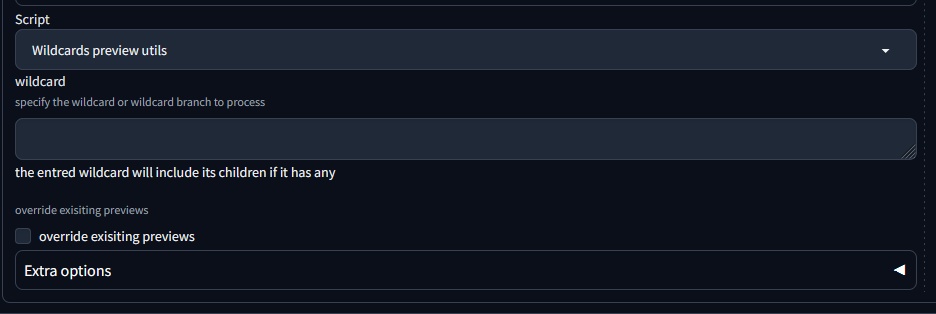
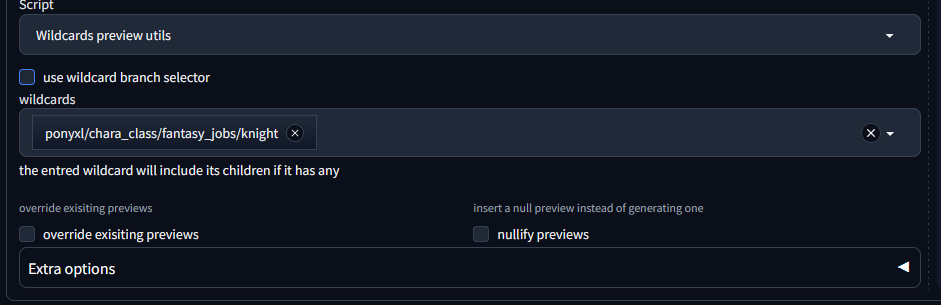
- added single card selectors - fixed the undetected cards bug - updated the readme

diff --git a/style.css b/style.css
@@ -1,3 +1,6 @@
+
+
+
 #settings_WildcardsCards .prose.gradio-html {
     position: absolute;
     bottom: 0;

diff --git a/scripts/preview_processing.py b/scripts/preview_processing.py
@@ -2,9 +2,11 @@ from modules.processing import process_images, Processed, fix_seed
 from modules.shared import state, opts
 from modules import images
 import os
+import shutil 
 from PIL import Image, ImageOps
 from scripts.misc_utils import (
     CARDS_FOLDER,
+    RES_FOLDER,
     WILD_STR,
 )
 
@@ -20,7 +22,30 @@ def resize_as_thumbnail (img, tragetSize=512):
     
     #return img.thumbnail(thumbnail_size, Image.Resampling.LANCZOS)
     return images.resize_image(0, img, width, height)
+
+def set_preview_as_null(selected_wild_paths, task_override=False, preview_suffix =""):
+    suffix = "."+preview_suffix.replace(" ","") if (not preview_suffix=="") and (not preview_suffix=="default") and preview_suffix  else ""
+    filtered_job_list = []
+
+    print(f"\n Selected ({len(selected_wild_paths)}) wildcards for preview nullification :")
+    for wpath in selected_wild_paths : 
+        save_file_name= os.path.join(CARDS_FOLDER, wpath.replace("/", os.path.sep))+suffix
+        if os.path.exists(save_file_name+".jpeg") or os.path.exists(save_file_name+".jpg") or os.path.exists(save_file_name+".png")  or os.path.exists(save_file_name+".gif"):
+            if task_override:
+                filtered_job_list.append(wpath)
+                print(f">> {wpath}  (EXIST=OVERRIDE)")
+                shutil.copyfile(os.path.join(RES_FOLDER,"null-preview.jpeg"), os.path.join(save_file_name+".jpeg"))
+            else:
+                print(f">> {wpath}  (EXIST=SKIP)")
+        else:
+            filtered_job_list.append(wpath)
+            shutil.copyfile(os.path.join(RES_FOLDER,"null-preview.jpeg"), os.path.join(save_file_name+".jpeg"))
+            print(f">> {wpath}")
     
+    print(f"\n({len(filtered_job_list)}/{len(selected_wild_paths)}) wildcard previews nullified")
+    
+
+   
 
 def txt2img_process(p,selected_wild_paths, replace_str_opt = "", task_override=False, preview_suffix =""): 
   
@@ -31,64 +56,64 @@ def txt2img_process(p,selected_wild_paths, replace_str_opt = "", task_override=F
     base_prompt = p.prompt
     fix_seed(p)
     filtered_job_list = []
-
-    print(f"\n Selected ({len(selected_wild_paths)}) wildcards for preview generation :")
-    for wpath in selected_wild_paths : 
-        save_file_name= os.path.join(CARDS_FOLDER, wpath.replace("/", os.path.sep))+suffix
-        if os.path.exists(save_file_name+".jpeg") or os.path.exists(save_file_name+".jpg") or os.path.exists(save_file_name+".png")  or os.path.exists(save_file_name+".gif"):
-            if task_override:
-                filtered_job_list.append(wpath)
-                print(f">> {wpath}  (EXIST=OVERRIDE)")
+    if(selected_wild_paths):
+        print(f"\n Selected ({len(selected_wild_paths)}) wildcards for preview generation :")
+        for wpath in selected_wild_paths : 
+            save_file_name= os.path.join(CARDS_FOLDER, wpath.replace("/", os.path.sep))+suffix
+            if os.path.exists(save_file_name+".jpeg") or os.path.exists(save_file_name+".jpg") or os.path.exists(save_file_name+".png")  or os.path.exists(save_file_name+".gif"):
+                if task_override:
+                    filtered_job_list.append(wpath)
+                    print(f">> {wpath}  (EXIST=OVERRIDE)")
+                else:
+                    print(f">> {wpath}  (EXIST=SKIP)")
             else:
-                print(f">> {wpath}  (EXIST=SKIP)")
-        else:
-            filtered_job_list.append(wpath)
-            print(f">> {wpath}")
-    
-    print(f"\n Generating ({len(filtered_job_list)}/{len(selected_wild_paths)}) wildcard previews ...")
+                filtered_job_list.append(wpath)
+                print(f">> {wpath}")
+        
+        print(f"\n Generating ({len(filtered_job_list)}/{len(selected_wild_paths)}) wildcard previews ...")
 
-    state.job_count = len(filtered_job_list)
-    for wpath in filtered_job_list:
-        if state.interrupted: break
+        state.job_count = len(filtered_job_list)
+        for wpath in filtered_job_list:
+            if state.interrupted: break
 
-        if(replace_str_opt=="" or base_prompt.count(replace_str_opt)==0):
-            p.prompt = f"{base_prompt} {WILD_STR}{wpath}{WILD_STR}"
-        else:
-            p.prompt = base_prompt.replace(replace_str_opt, f"{WILD_STR}{wpath}{WILD_STR}", 1)  
-        
-        all_prompts.append(p.prompt)
-        
-        proc = process_images(p)
-        infotexts.append(proc.info)
-        
-        if(len(proc.images)>1):
-            images_list.append(proc.images[0])
-        else:
-            images_list += proc.images
-        
-        if state.interrupted: break  
-        # save_dir = os.path.dirname(os.path.join(CARDS_FOLDER, wpath.replace("/", os.path.sep)))
-        # save_name = wpath.split("/")[-1]
-        # images.save_image(
-        #         image= proc.images[0], 
-        #         path= save_dir, 
-        #         basename= save_name, 
-        #         seed = p.seed, 
-        #         prompt = p.prompt, 
-        #         extension= opts.samples_format, 
-        #         info="", 
-        #         p=p, 
-        #         suffix= suffix)
-        
-        save_file_name= os.path.join(CARDS_FOLDER, wpath.replace("/", os.path.sep))+suffix+".jpeg"
-        print(f"Saving preview image at: {save_file_name}")
-        #proc.images[0].save(save_file_name)
-        if(getattr(opts, "wcc_downscale_preview", False)):
-            final_image = resize_as_thumbnail(proc.images[0])
-        else:
-            final_image = proc.images[0]
-        
-        images.save_image_with_geninfo(image = final_image, geninfo = proc.info, filename = save_file_name)
+            if(replace_str_opt=="" or base_prompt.count(replace_str_opt)==0):
+                p.prompt = f"{base_prompt} {WILD_STR}{wpath}{WILD_STR}"
+            else:
+                p.prompt = base_prompt.replace(replace_str_opt, f"{WILD_STR}{wpath}{WILD_STR}", 1)  
+            
+            all_prompts.append(p.prompt)
+            
+            proc = process_images(p)
+            infotexts.append(proc.info)
+            
+            if(len(proc.images)>1):
+                images_list.append(proc.images[0])
+            else:
+                images_list += proc.images
+            
+            if state.interrupted: break  
+            # save_dir = os.path.dirname(os.path.join(CARDS_FOLDER, wpath.replace("/", os.path.sep)))
+            # save_name = wpath.split("/")[-1]
+            # images.save_image(
+            #         image= proc.images[0], 
+            #         path= save_dir, 
+            #         basename= save_name, 
+            #         seed = p.seed, 
+            #         prompt = p.prompt, 
+            #         extension= opts.samples_format, 
+            #         info="", 
+            #         p=p, 
+            #         suffix= suffix)
+            
+            save_file_name= os.path.join(CARDS_FOLDER, wpath.replace("/", os.path.sep))+suffix+".jpeg"
+            print(f"Saving preview image at: {save_file_name}")
+            #proc.images[0].save(save_file_name)
+            if(getattr(opts, "wcc_downscale_preview", False)):
+                final_image = resize_as_thumbnail(proc.images[0])
+            else:
+                final_image = proc.images[0]
+            
+            images.save_image_with_geninfo(image = final_image, geninfo = proc.info, filename = save_file_name)
         
 
     return Processed(p, images_list, p.seed, "", all_prompts=all_prompts, infotexts=infotexts)

diff --git a/scripts/extra_cards.py b/scripts/extra_cards.py
@@ -1,6 +1,6 @@
 from modules.ui_extra_networks import ExtraNetworksPage, quote_js, register_page
 from modules import shared, script_callbacks
-import modules.scripts as scripts
+import modules.scripts as scripts 
 
 from scripts.misc_utils import (
     collect_Wildcards,
@@ -14,7 +14,7 @@ from scripts.misc_utils import (
     WILD_STR,
 )
 from scripts.preview_processing import (
-    txt2img_process
+    txt2img_process, set_preview_as_null
 )
 import shutil
 import os
@@ -176,6 +176,11 @@ def on_ui_settings():
 
 
 #-------------------------|Utility_Script Block_Start|--------------------------
+
+
+def toggle_wildpath_box (toggle_status):
+    return (gr.update(visible= toggle_status))
+
 class Script(scripts.Script):
     is_txt2img = False
 
@@ -185,9 +190,15 @@ class Script(scripts.Script):
 
     def ui(self, is_img2img):
         with gr.Column():
-            selected_wild_path = gr.Textbox(label="wildcard" , interactive = True , info="specify the wildcard or wildcard branch to process" )
-            extra_Info          = gr.Markdown( value = "the entred wildcard will include its children if it has any" )
-            task_override = gr.Checkbox(label="override exisiting previews",value = False,info ="override exisiting previews")
+            use_wild_path       = gr.Checkbox (label ="use wildcard branch selector",value = False)
+            selected_wild_path  = gr.Textbox (label   ="wildcard parent branch" , interactive = True , info="specify the wildcard or a wildcard root to process" , visible= False)
+            with gr.Row():
+                selected_wildcard = gr.Dropdown(label ="wildcards" , interactive = True , choices= collect_Wildcards(WILDCARDS_FOLDER), multiselect=True)
+            extra_Info          = gr.Markdown(value = "the entred wildcard will include its children if it has any" )
+            with gr.Row():
+                task_override       = gr.Checkbox(label ="override exisiting previews"  ,value = False,info ="override exisiting previews")
+                task_nullify       = gr.Checkbox (label ="nullify previews"             ,value = False,info ="insert a null preview instead of generating one")
+            
             with gr.Accordion(open=False, label="Extra options"):
                 with gr.Column():
                     replace_str_opt = gr.Textbox(label="insert by replacing" , interactive = True , info="insert by replacing a text passage" )
@@ -198,26 +209,35 @@ class Script(scripts.Script):
                             interactive = True , 
                             info="adds the preview to the chosen preview_channel" )
 
-
+        use_wild_path.change(fn=toggle_wildpath_box , inputs=use_wild_path, outputs= selected_wild_path)
         
-        return [selected_wild_path ,extra_Info ,task_override ,replace_str_opt, preview_suffix]
+        return [selected_wild_path ,extra_Info ,task_override ,replace_str_opt, preview_suffix, selected_wildcard, use_wild_path, task_nullify]
 
     # Function to show the script
     def show(self, is_img2img):
         return not is_img2img
 
     # Function to run the script
-    def run(self, p,selected_wild_path ,extra_Info, task_override,  replace_str_opt, preview_suffix):
+    def run(self, p,selected_wild_path ,extra_Info, task_override,  replace_str_opt, preview_suffix, selected_wildcard, use_wild_path, task_nullify):
         # Make a process_images Object
-        if(selected_wild_path and not selected_wild_path==""):
+        if((selected_wild_path and not selected_wild_path=="") or (not use_wild_path and selected_wildcard)):
             wild_paths = collect_Wildcards(WILDCARDS_FOLDER)
-            selected_wild_paths = [item for item in wild_paths if item.lower().startswith(selected_wild_path.lower())]
+            selected_wild_path = selected_wild_path.replace("*","").replace(WILD_STR,"") 
+
+            selected_wild_paths = [item for item in wild_paths if (item.lower().startswith(selected_wild_path.lower()) and use_wild_path) or (item in selected_wildcard if selected_wildcard else False)   ]
+
             if(selected_wild_paths):
-                return txt2img_process(p,selected_wild_paths ,replace_str_opt , task_override ,preview_suffix)
+                if(task_nullify):
+                    set_preview_as_null(selected_wild_paths, task_override ,preview_suffix)
+                    return txt2img_process(p,[] ,replace_str_opt , task_override ,preview_suffix)
+                else:
+                    return txt2img_process(p,selected_wild_paths ,replace_str_opt , task_override ,preview_suffix)
             else:
                 print("___Skipping Wildcard preview generation [wildcard empty or not found]___")
+                return txt2img_process(p,[] ,replace_str_opt , task_override ,preview_suffix)
         else:
             print("___Skipping Wildcard preview generation [lack of perameters]___")
+            return txt2img_process(p,[] ,replace_str_opt , task_override ,preview_suffix)
 #-------------------------|Utility_Script Block_End|----------------------------
 
 

diff --git a/scripts/misc_utils.py b/scripts/misc_utils.py
@@ -200,4 +200,6 @@ def collect_stray_previews (wild_paths, cards_dir = CARDS_FOLDER):
         print(f'______ {len(stay_previews_list)} stray previews collected______')
         print(f'moved into: [{STRAY_RES_folder}]')
 
+
+
 if(not WILDCARDS_FOLDER): WILDCARDS_FOLDER = find_ext_wildcard_paths()

diff --git a/README.md b/README.md
@@ -52,12 +52,14 @@ after hitting **Apply settings** and **Refresh Galley** all wildcards previews w
 
 ### Preview generation
 
-- You batch generate preview images for wildcards beaches by selecting the `Wildcards preview utils` in the Script dropdown menu in either the txt2img or img2img tab
-
+- You batch generate preview images for wildcards beaches by selecting the `Wildcards preview utils` in the Script dropdown menu in either the txt2img tab
+- you simply have to choose the cards from the dropdown menu (you can also type while in the dropdown menu to filter items )
 <img  src="screenshots/screen (5).png"/>
 
-- you simply have to enter the parent wildcard activation path (without the "__" part)
+- you can also use the parent wildcard path to easly select multiple cards at once for the preview generation
+<img  src="screenshots/screen (8).png"/>
 
+- simply check the `use wildcard branch selector` box and enter the parent wildcard activation path in the `wildcard parent branch` text area
 [ *if you are unsure about the wildcard activation path you can click on the wildcard in the galley that will insert the activation path into the prompt area for you to view * ]
 
 - now after hitting **Generate** the script will:
